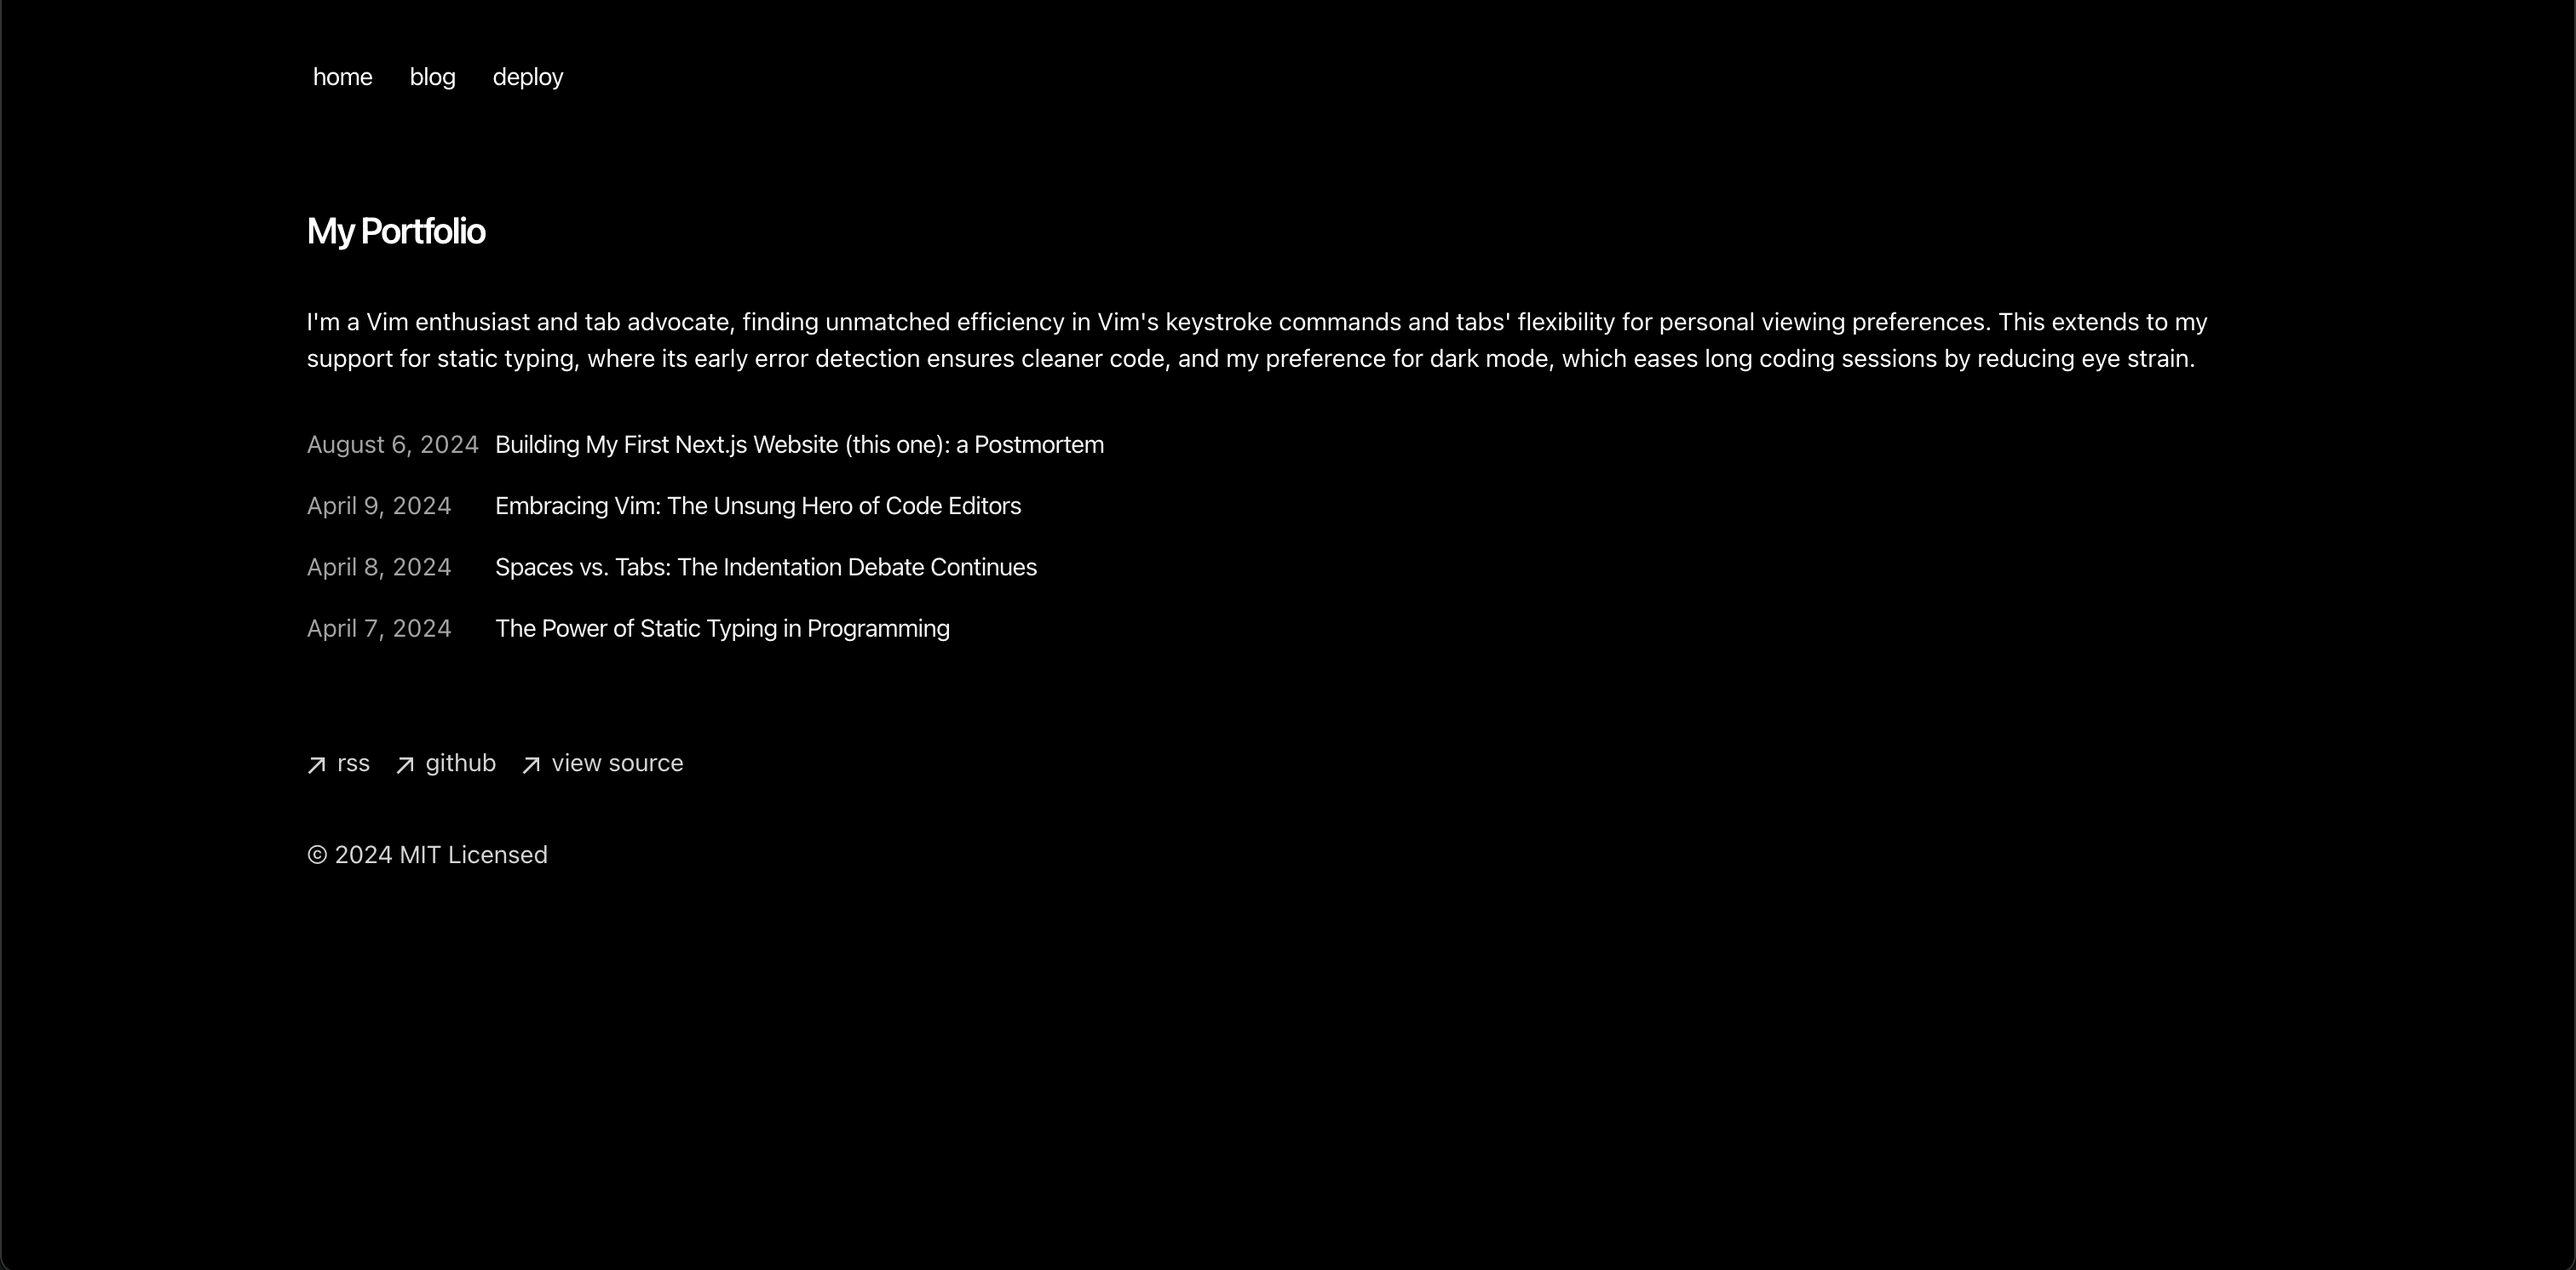
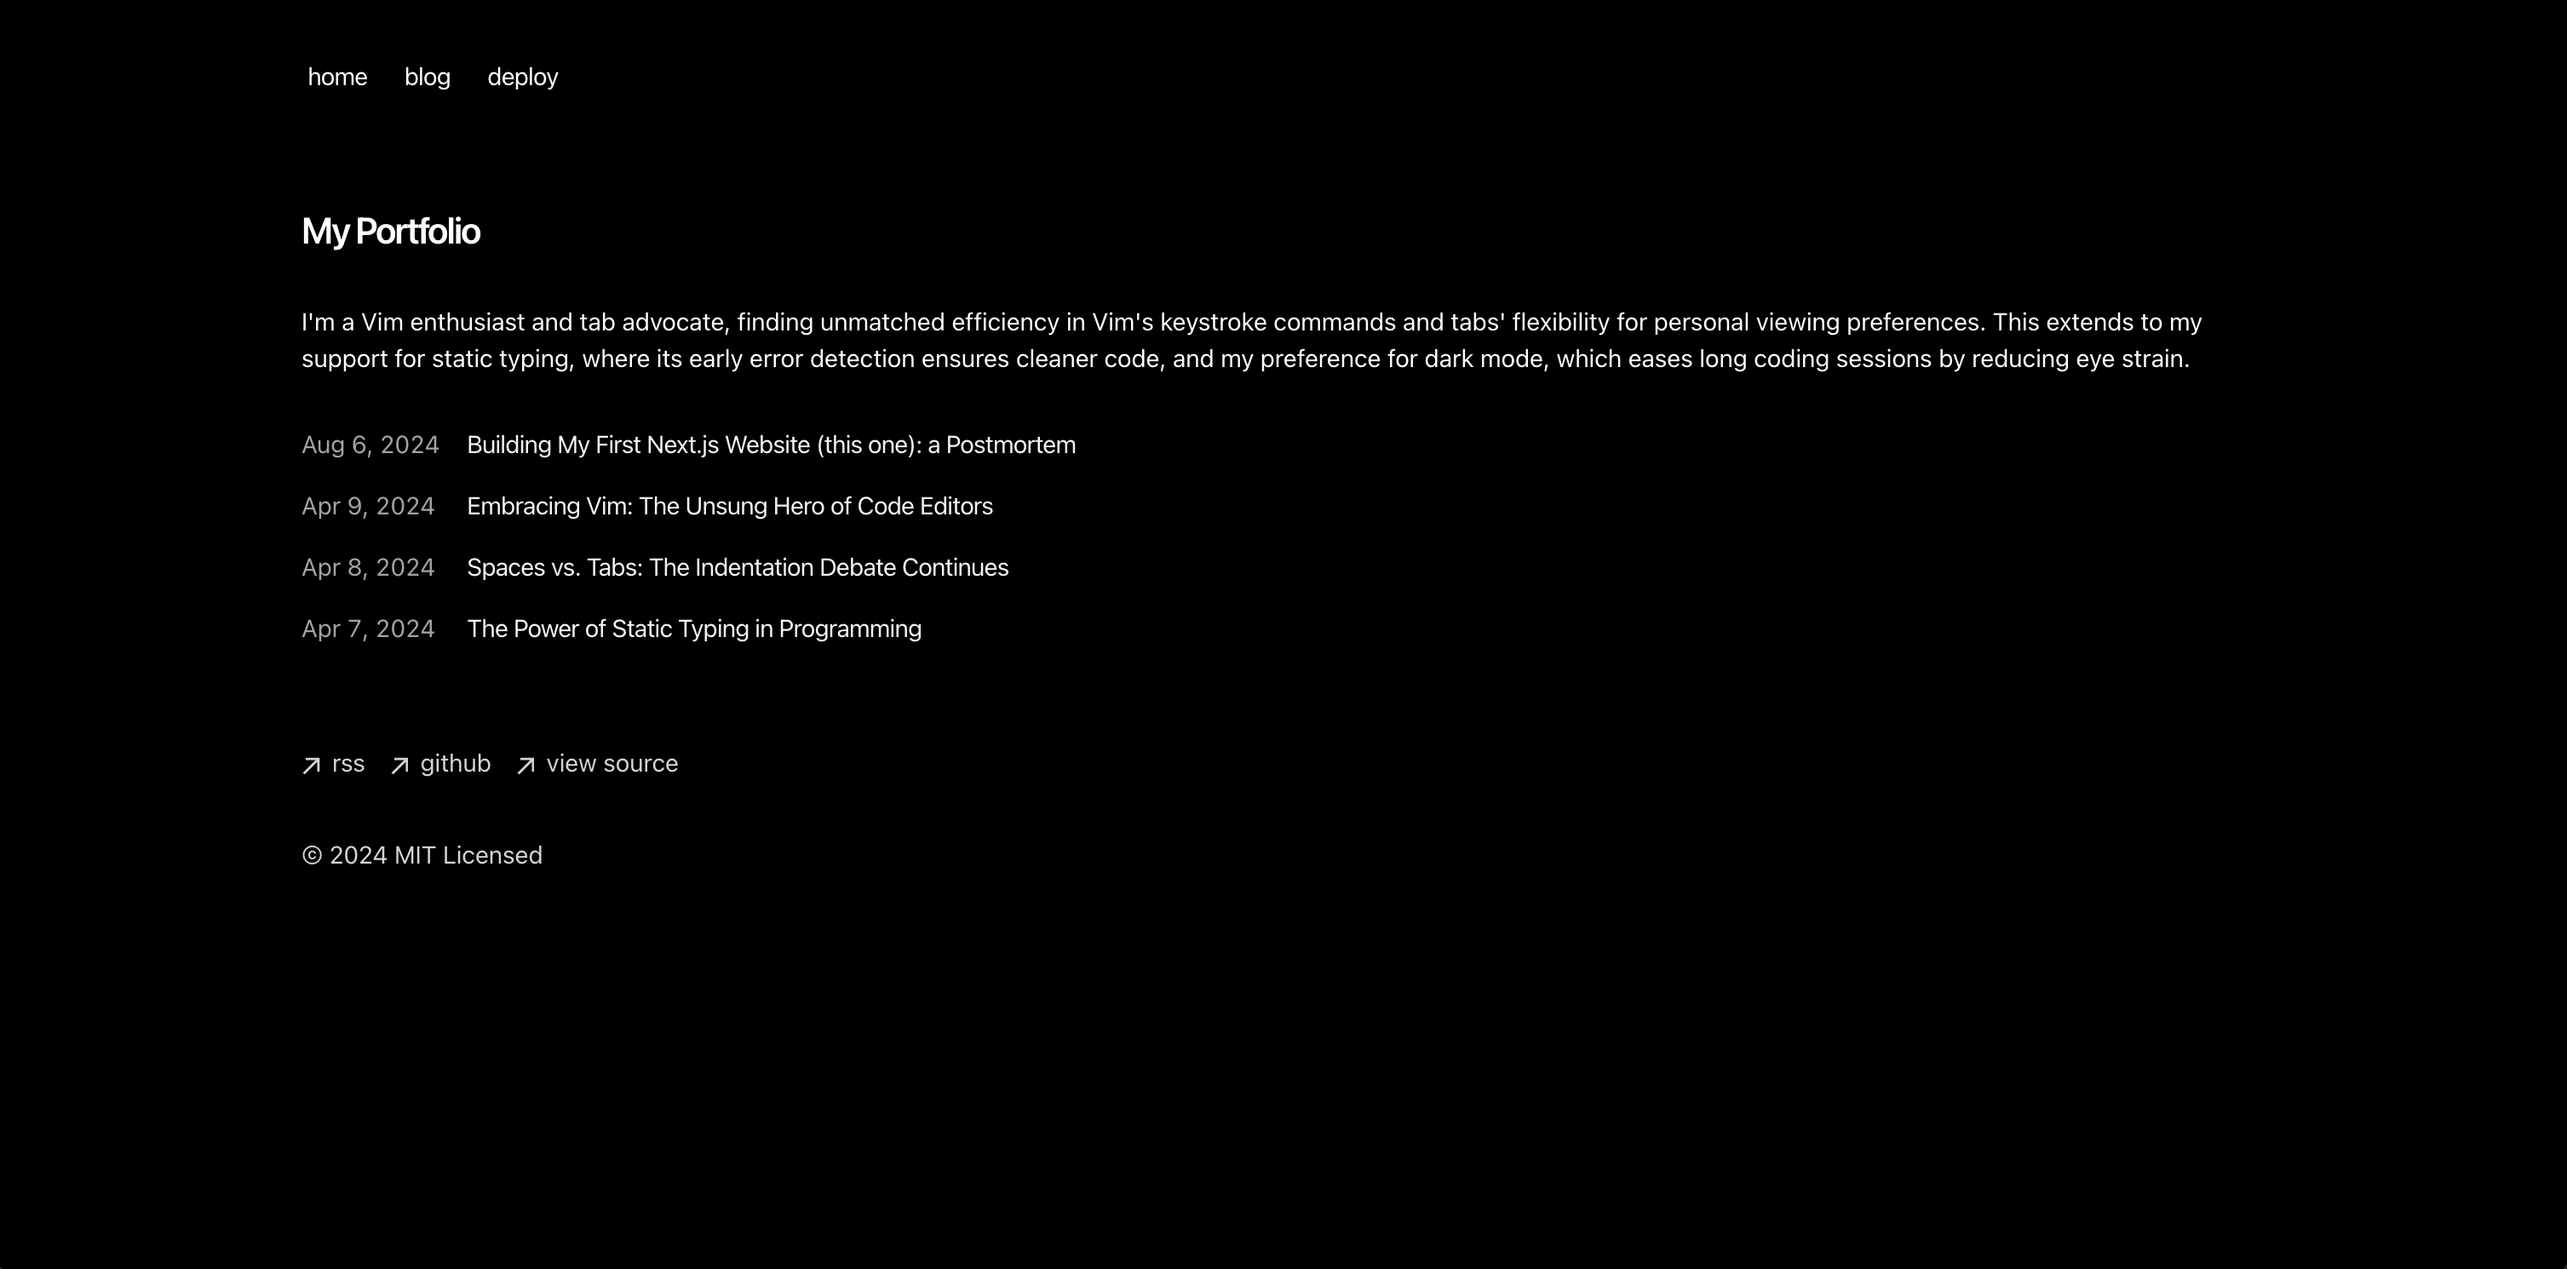
init PortfolioGrid

diff --git a/app/blog/utils.ts b/app/blog/utils.ts
@@ -1,90 +1,90 @@
-import fs from 'fs'
-import path from 'path'
+import fs from "fs";
+import path from "path";
 
 type Metadata = {
-  title: string
-  publishedAt: string
-  summary: string
-  image?: string
-}
+  title: string;
+  publishedAt: string;
+  summary: string;
+  image?: string;
+};
 
 function parseFrontmatter(fileContent: string) {
-  let frontmatterRegex = /---\s*([\s\S]*?)\s*---/
-  let match = frontmatterRegex.exec(fileContent)
-  let frontMatterBlock = match![1]
-  let content = fileContent.replace(frontmatterRegex, '').trim()
-  let frontMatterLines = frontMatterBlock.trim().split('\n')
-  let metadata: Partial<Metadata> = {}
+  let frontmatterRegex = /---\s*([\s\S]*?)\s*---/;
+  let match = frontmatterRegex.exec(fileContent);
+  let frontMatterBlock = match![1];
+  let content = fileContent.replace(frontmatterRegex, "").trim();
+  let frontMatterLines = frontMatterBlock.trim().split("\n");
+  let metadata: Partial<Metadata> = {};
 
   frontMatterLines.forEach((line) => {
-    let [key, ...valueArr] = line.split(': ')
-    let value = valueArr.join(': ').trim()
-    value = value.replace(/^['"](.*)['"]$/, '$1') // Remove quotes
-    metadata[key.trim() as keyof Metadata] = value
-  })
+    let [key, ...valueArr] = line.split(": ");
+    let value = valueArr.join(": ").trim();
+    value = value.replace(/^['"](.*)['"]$/, "$1"); // Remove quotes
+    metadata[key.trim() as keyof Metadata] = value;
+  });
 
-  return { metadata: metadata as Metadata, content }
+  return { metadata: metadata as Metadata, content };
 }
 
 function getMDXFiles(dir) {
-  return fs.readdirSync(dir).filter((file) => path.extname(file) === '.mdx')
+  return fs.readdirSync(dir).filter((file) => path.extname(file) === ".mdx");
 }
 
 function readMDXFile(filePath) {
-  let rawContent = fs.readFileSync(filePath, 'utf-8')
-  return parseFrontmatter(rawContent)
+  let rawContent = fs.readFileSync(filePath, "utf-8");
+  return parseFrontmatter(rawContent);
 }
 
 function getMDXData(dir) {
-  let mdxFiles = getMDXFiles(dir)
+  let mdxFiles = getMDXFiles(dir);
   return mdxFiles.map((file) => {
-    let { metadata, content } = readMDXFile(path.join(dir, file))
-    let slug = path.basename(file, path.extname(file))
+    let { metadata, content } = readMDXFile(path.join(dir, file));
+    let slug = path.basename(file, path.extname(file));
 
     return {
       metadata,
       slug,
       content,
-    }
-  })
+    };
+  });
 }
 
 export function getBlogPosts() {
-  return getMDXData(path.join(process.cwd(), 'app', 'blog', 'posts'))
+  return getMDXData(path.join(process.cwd(), "app", "blog", "posts"));
 }
 
 export function formatDate(date: string, includeRelative = false) {
-  let currentDate = new Date()
-  if (!date.includes('T')) {
-    date = `${date}T00:00:00`
+  let currentDate = new Date();
+  if (!date.includes("T")) {
+    date = `${date}T00:00:00`;
   }
-  let targetDate = new Date(date)
+  let targetDate = new Date(date);
 
-  let yearsAgo = currentDate.getFullYear() - targetDate.getFullYear()
-  let monthsAgo = currentDate.getMonth() - targetDate.getMonth()
-  let daysAgo = currentDate.getDate() - targetDate.getDate()
+  let yearsAgo = currentDate.getFullYear() - targetDate.getFullYear();
+  let monthsAgo = currentDate.getMonth() - targetDate.getMonth();
+  let daysAgo = currentDate.getDate() - targetDate.getDate();
 
-  let formattedDate = ''
+  let formattedDate = "";
 
   if (yearsAgo > 0) {
-    formattedDate = `${yearsAgo}y ago`
+    formattedDate = `${yearsAgo}y ago`;
   } else if (monthsAgo > 0) {
-    formattedDate = `${monthsAgo}mo ago`
+    formattedDate = `${monthsAgo}mo ago`;
   } else if (daysAgo > 0) {
-    formattedDate = `${daysAgo}d ago`
+    formattedDate = `${daysAgo}d ago`;
   } else {
-    formattedDate = 'Today'
+    formattedDate = "Today";
   }
 
-  let fullDate = targetDate.toLocaleString('en-us', {
-    month: 'long',
-    day: 'numeric',
-    year: 'numeric',
-  })
+  let fullDate = targetDate.toLocaleString("en-us", {
+    month: "short",
+    day: "numeric",
+    year: "numeric",
+  });
 
   if (!includeRelative) {
-    return fullDate
+    return fullDate;
   }
 
-  return `${fullDate} (${formattedDate})`
+  return `${fullDate} (${formattedDate})`;
 }

diff --git a/app/components/nav.tsx b/app/components/nav.tsx
@@ -1,16 +1,19 @@
-import Link from 'next/link'
+import Link from "next/link";
 
 const navItems = {
-  '/': {
-    name: 'home',
+  "/": {
+    name: "home",
   },
-  '/blog': {
-    name: 'blog',
+  "/projects": {
+    name: "projects",
   },
-  'https://vercel.com/templates/next.js/portfolio-starter-kit': {
-    name: 'deploy',
+  "/blog": {
+    name: "blog",
   },
-}
+  "https://vercel.com/templates/next.js/portfolio-starter-kit": {
+    name: "deploy",
+  },
+};
 
 export function Navbar() {
   return (
@@ -30,11 +33,11 @@ export function Navbar() {
                 >
                   {name}
                 </Link>
-              )
+              );
             })}
           </div>
         </nav>
       </div>
     </aside>
-  )
+  );
 }

diff --git a/app/components/posts.tsx b/app/components/posts.tsx
@@ -23,7 +23,7 @@ export function BlogPosts() {
             href={`/blog/${post.slug}`}
           >
             <div className="w-full flex flex-col md:flex-row space-x-0 md:space-x-2 link">
-              <p className="text-neutral-600 dark:text-neutral-400 w-[115px] tabular-nums">
+              <p className="text-neutral-600 dark:text-neutral-400 w-[100px] tabular-nums">
                 {formatDate(post.metadata.publishedAt, false)}
               </p>
               <p className="text-neutral-900 dark:text-neutral-100 tracking-tight">

diff --git a/app/components/portfolio-grid.tsx b/app/components/portfolio-grid.tsx
@@ -1,0 +1,21 @@
+import "./portfolio-grid.css";
+
+export default function PortfolioGrid() {
+  return (
+    <section>
+      <div className="grid">
+        {[1, 2, 3, 4, 5, 6, 7, 8, 9, 10].map((x) => (
+          <div className="item" key={x}>
+            <img
+              src={`https://picsum.photos/500?random=${x}`}
+              alt={x.toString()}
+            />
+            <div>
+              <p>Project {x}</p>
+            </div>
+          </div>
+        ))}
+      </div>
+    </section>
+  );
+}

diff --git a/app/components/portfolio-grid.css b/app/components/portfolio-grid.css
@@ -1,0 +1,29 @@
+.grid {
+  display: grid;
+  gap: 1rem;
+  justify-items: center;
+  grid-template-columns: repeat(1, 1fr [col-start]);
+}
+
+.item {
+  border-radius: 10px;
+  overflow: hidden;
+}
+
+@media (min-width: 500px) {
+  .grid {
+    grid-template-columns: repeat(2, 1fr [col-start]);
+  }
+}
+
+@media (min-width: 750px) {
+  .grid {
+    grid-template-columns: repeat(3, 1fr [col-start]);
+  }
+}
+
+@media (min-width: 1000px) {
+  .grid {
+    grid-template-columns: repeat(4, 1fr [col-start]);
+  }
+}

diff --git a/app/projects/page.tsx b/app/projects/page.tsx
@@ -1,0 +1,5 @@
+import PortfolioGrid from "app/components/portfolio-grid";
+
+export default function Page() {
+  return <PortfolioGrid />;
+}

diff --git a/app/components/mdx.css b/app/components/mdx.css
@@ -5,7 +5,7 @@
 }
 
 .bordered-image {
-  border: 2px solid;
+  border: 1px solid;
 }
 
 code {
